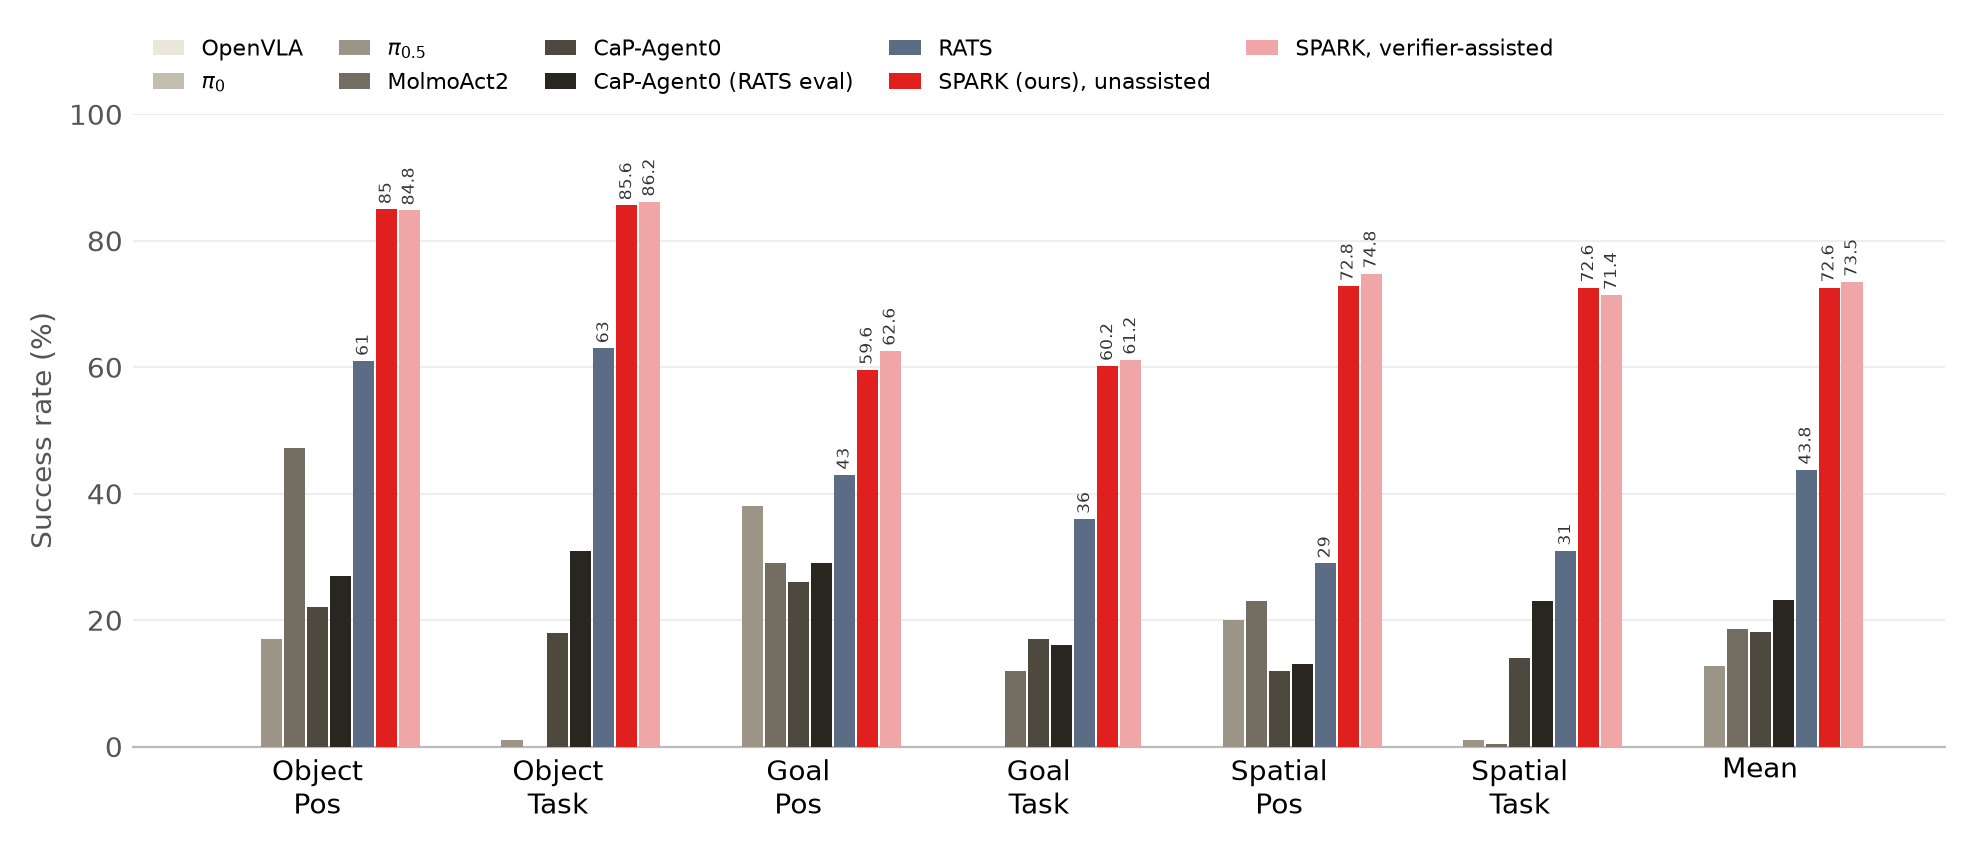
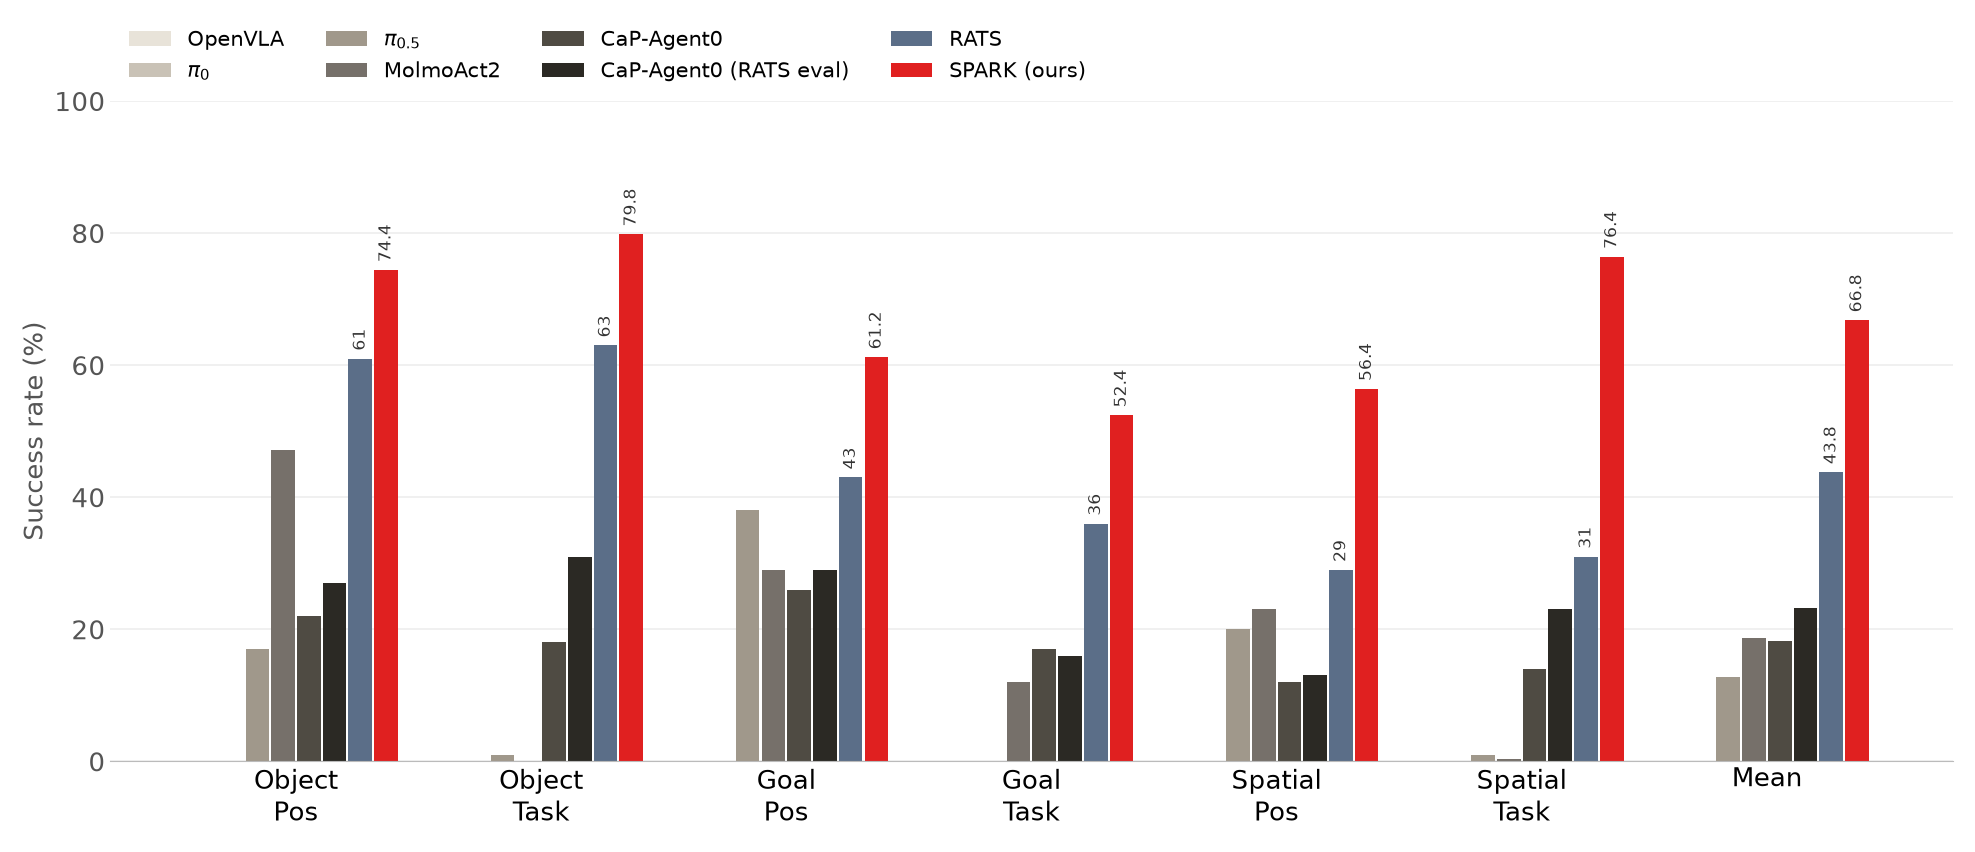
benchmark number fixes

diff --git a/index.html b/index.html
@@ -4,18 +4,18 @@
 <meta charset="utf-8">
 <meta name="viewport" content="width=device-width,initial-scale=1">
 <title>SPARK: Sequential Planning via Anchored Robotic Keypoints</title>
-<meta name="description" content="SPARK separates a task's symbolic plan from its execution-time perceptual grounding: 72.6% mean success on six LIBERO-PRO settings and 68% across eleven physical task-embodiment settings on three robot platforms, without task-specific model training.">
+<meta name="description" content="SPARK separates a task's symbolic plan from its execution-time perceptual grounding: 66.8% mean success on six LIBERO-PRO settings and 68% across eleven physical task-embodiment settings on three robot platforms, without task-specific model training.">
 <!-- Open Graph / Twitter social preview card -->
 <meta property="og:type" content="website">
 <meta property="og:url" content="https://cwru-aism.github.io/spark-page/">
 <meta property="og:title" content="SPARK: Sequential Planning via Anchored Robotic Keypoints">
-<meta property="og:description" content="Separating a task's symbolic plan from its execution-time perceptual grounding: 72.6% on six LIBERO-PRO settings and 68% across eleven physical task-embodiment settings on three robot platforms, without task-specific model training.">
+<meta property="og:description" content="Separating a task's symbolic plan from its execution-time perceptual grounding: 66.8% on six LIBERO-PRO settings and 68% across eleven physical task-embodiment settings on three robot platforms, without task-specific model training.">
 <meta property="og:image" content="https://cwru-aism.github.io/spark-page/static/media/og_preview.jpg">
 <meta property="og:image:width" content="1200">
 <meta property="og:image:height" content="628">
 <meta name="twitter:card" content="summary_large_image">
 <meta name="twitter:title" content="SPARK: Sequential Planning via Anchored Robotic Keypoints">
-<meta name="twitter:description" content="Separating a task's symbolic plan from its execution-time perceptual grounding: 72.6% on six LIBERO-PRO settings and 68% across eleven physical task-embodiment settings on three robot platforms, without task-specific model training.">
+<meta name="twitter:description" content="Separating a task's symbolic plan from its execution-time perceptual grounding: 66.8% on six LIBERO-PRO settings and 68% across eleven physical task-embodiment settings on three robot platforms, without task-specific model training.">
 <meta name="twitter:image" content="https://cwru-aism.github.io/spark-page/static/media/og_preview.jpg">
 <link rel="image_src" href="static/media/og_preview.jpg">
 <link rel="icon" type="image/png" href="static/media/favicon.png">
@@ -62,7 +62,7 @@
           </div>
 
           <div class="publication-links">
-            <a class="btn-link" href="http://arxiv.org/abs/2606.30613"><i class="ai ai-arxiv"></i><span>arXiv</span></a>
+            <a class="btn-link" href="https://arxiv.org/abs/2606.30613"><i class="ai ai-arxiv"></i><span>arXiv</span></a>
             <a class="btn-link" href="#"><svg viewBox="0 0 16 16"><path d="M8 0C3.58 0 0 3.58 0 8c0 3.54 2.29 6.53 5.47 7.59.4.07.55-.17.55-.38 0-.19-.01-.82-.01-1.49-2.01.37-2.53-.49-2.69-.94-.09-.23-.48-.94-.82-1.13-.28-.15-.68-.52-.01-.53.63-.01 1.08.58 1.23.82.72 1.21 1.87.87 2.33.66.07-.52.28-.87.51-1.07-1.78-.2-3.64-.89-3.64-3.95 0-.87.31-1.59.82-2.15-.08-.2-.36-1.02.08-2.12 0 0 .67-.21 2.2.82a7.6 7.6 0 0 1 2-.27c.68 0 1.36.09 2 .27 1.53-1.04 2.2-.82 2.2-.82.44 1.1.16 1.92.08 2.12.51.56.82 1.27.82 2.15 0 3.07-1.87 3.75-3.65 3.95.29.25.54.73.54 1.48 0 1.07-.01 1.93-.01 2.2 0 .21.15.46.55.38A8.01 8.01 0 0 0 16 8c0-4.42-3.58-8-8-8z" fill-rule="evenodd"/></svg><span>Code coming soon</span></a>
           </div>
         </div>
@@ -111,8 +111,8 @@
             manipulation experiments with a fixed plan while moving objects during execution. Under a 10 cm
             displacement, verification and adaptation maintain <strong>66.7%</strong> task success, compared with
             <strong>2.2%</strong> when disabled, demonstrating the importance of the underlying principle. Without
-            task-specific model training, SPARK also achieves <strong>72.6%</strong> mean success across six
-            LIBERO-PRO settings and <strong>68%</strong> across eleven physical task-embodiment settings on three
+            task-specific model training and with an open-weight planner, SPARK also achieves <strong>66.8%</strong>
+            mean success across six LIBERO-PRO settings and <strong>68%</strong> across eleven physical task-embodiment settings on three
             robot platforms. Together, these results show that robustness does not require re-planning the task
             and for an important class of failures, it is sufficient to preserve the plan and update the system's
             perception of a changing world.
@@ -133,7 +133,7 @@
           <img src="static/media/figs/arch.png" alt="SPARK architecture: perception, plan, execute">
           <figcaption>
             SPARK separates the task's score from its execution. Left: perception locates objects as 3D
-            keypoints; the adaptive configuration uses an additional Gemini call to propose alternative object
+            keypoints; the adaptive configuration uses an additional language-model call to propose alternative object
             descriptions. Center: one language-model call writes the score, a behavior tree whose notes are
             skills from a fixed library. Right: the robot executes these skills using current object locations
             and checks each action's post-condition. Failed checks trigger local correction or renewed detection
@@ -143,8 +143,9 @@
         </figure>
         <div class="content has-text-justified">
           <p>
-            SAM3 grounds the scene from the platform cameras. One Gemini call writes the whole plan as a
+            SAM3 grounds the scene from the platform cameras. One language-model call writes the whole plan as a
             typed behavior tree, the score, and the robot follows it without task-specific model training.
+            The LIBERO-PRO results use the open-weight Qwen3.8-27B, served locally; the physical robots use Gemini.
             Each action refers to an object by label, which is resolved to a current 3D position when the
             action executes. A changed instruction may invalidate the task plan, while a moved object may
             instead invalidate only the perceptual grounding of an otherwise valid plan.
@@ -158,11 +159,11 @@
             Each skill checks a post-condition. A failed check triggers a three-tier recovery procedure: an
             in-place correction, such as a small motion and grasp adjustment; perception re-grounding, which
             retracts the arm by 10 cm, re-runs SAM3, and retries the same plan using updated object locations;
-            and plan regeneration through a new Gemini call only after the execution attempt is exhausted. The
+            and plan regeneration through a new language-model call only after the execution attempt is exhausted. The
             first two tiers preserve the existing behavior tree and require no additional LLM call. Five base
             primitives (move_to_keypoint, move_relative, grasp, release, wait) cover basic motion operations,
             and more than thirty registered skills add calibrated closed-loop routines such as force-feedback
-            descent, contact detection, and local retry logic. In simulation, an additional Gemini call
+            descent, contact detection, and local retry logic. In simulation, an additional language-model call
             proposes three alternative prompts per object and SAM3 confidence selects the detection; in the
             matched ablation this raises spatial success by 27.7 points and object success by 10.0, but
             lowers goal-task success by 8.4. Physical experiments use single-prompt detection.
@@ -184,9 +185,11 @@
         <p class="has-text-centered content">
           Success rates (%) over the six LIBERO-PRO position-and-task settings: three suites, two
           perturbation types per suite, ten tasks per setting, 50 trials per task. Pos changes initial
-          object placements; Task changes instructions, targets, relations, or actions. SPARK reads no
-          simulator signal during the episode in the headline row, uses no stored programs, and no BDDL hints.
+          object placements; Task changes instructions, targets, relations, or actions. The SPARK row uses the
+          open-weight Qwen3.8-27B planner, reads no simulator success signal during the episode, locates and
+          verifies drawers and the stove knob from the cameras alone, and uses no stored programs.
         </p>
+        <div style="overflow-x:auto;">
         <table class="result-table">
           <thead>
             <tr><th>Method</th><th>Object Pos</th><th>Object Task</th><th>Goal Pos</th><th>Goal Task</th><th>Spatial Pos</th><th>Spatial Task</th><th>Mean</th></tr>
@@ -199,29 +202,27 @@
             <tr><td>CaP-Agent0</td><td>22</td><td>18</td><td>26</td><td>17</td><td>12</td><td>14</td><td>18.2</td></tr>
             <tr><td>CaP-Agent0 (RATS eval)</td><td>27.0</td><td>31.0</td><td>29.0</td><td>16.0</td><td>13.0</td><td>23.0</td><td>23.2</td></tr>
             <tr><td>RATS</td><td>61.0</td><td>63.0</td><td>43.0</td><td>36.0</td><td>29.0</td><td>31.0</td><td>43.8</td></tr>
-            <tr class="ours rule"><td>SPARK (ours), unassisted</td><td>85.0</td><td>85.6</td><td>59.6</td><td>60.2</td><td>72.8</td><td>72.6</td><td>72.6</td></tr>
-            <tr><td>SPARK, verifier-assisted</td><td>84.8</td><td>86.2</td><td>62.6</td><td>61.2</td><td>74.8</td><td>71.4</td><td>73.5</td></tr>
+            <tr class="ours rule"><td>SPARK (ours)</td><td>74.4</td><td>79.8</td><td>61.2</td><td>52.4</td><td>56.4</td><td>76.4</td><td>66.8</td></tr>
           </tbody>
         </table>
+        </div>
         <p class="result-note has-text-centered">
           OpenVLA, pi0, pi0.5, and the original CaP-Agent0 rows are reproduced from the CaP-Agent0 paper;
           CaP-Agent0 (RATS eval) and RATS are from the RATS paper; MolmoAct2 is our evaluation of the released
-          LIBERO checkpoint. Three goal tasks read model part poses from the simulator; excluding them the
-          unassisted mean is 71.7%. The verifier-assisted row reads the simulator's success predicate
-          mid-episode; the unassisted row removes every such read on the same build and model.
+          LIBERO checkpoint. SPARK: 10 tasks &times; 50 trials per setting.
         </p>
         <p class="has-text-centered content">
-          SPARK reaches <strong>72.6%</strong> mean success with no simulator signal read during the episode,
-          28.8 percentage points above RATS at 43.8%. No task in either goal setting scores zero across fifty
-          trials; the remaining losses concentrate in plate-push and rack-insertion tasks.
+          SPARK reaches <strong>66.8%</strong> mean success with no simulator signal read during the episode,
+          23.0 percentage points above RATS at 43.8%. On the language and object perturbations, which were
+          not used during development, the mean is also <strong>66.8%</strong> (object 92.2 and 78.4, goal 55.2
+          and 44.4, spatial 46.0 and 84.4).
         </p>
 
         <figure class="result-fig">
           <img src="static/media/figs/libero_persuite.png" alt="LIBERO-PRO success rates per setting by method, from the table above">
           <figcaption>
-            The table above as a chart: every method's six settings and mean. The unassisted SPARK row
-            (red, <strong>72.6</strong> mean) is the headline; the verifier-assisted row (73.5) reads the
-            simulator's success predicate mid-episode. OpenVLA and &pi;<sub>0</sub> score 0 in every cell.
+            The table above as a chart: every method's six settings and mean. SPARK (red, <strong>66.8</strong>
+            mean) leads every setting. OpenVLA and &pi;<sub>0</sub> score 0 in every cell.
           </figcaption>
         </figure>
 
@@ -230,9 +231,9 @@
           <img src="static/media/figs/libero_heatmap_object.png" alt="Per-task LIBERO-PRO success, object suite">
           <img src="static/media/figs/libero_heatmap_goal.png" alt="Per-task LIBERO-PRO success, goal suite">
           <figcaption>
-            Per-task success (%) for each LIBERO-PRO suite on the headline build (50 trials per task):
-            SPARK unassisted (top two rows, the headline row of the table above), SPARK verifier-assisted
-            (middle two rows), and MolmoAct2 (bottom two rows). SPARK outperforms MolmoAct2 on task-level
+            Per-task success (%) for each LIBERO-PRO suite (50 trials per task): SPARK position and task
+            (top two rows, the table above), SPARK on the held-out language and object perturbations
+            (middle two rows, marked *), and MolmoAct2 (bottom two rows). SPARK outperforms MolmoAct2 on task-level
             perturbation across all three suites; MolmoAct2 achieves higher position accuracy on specific
             object-suite tasks but scores near zero on task perturbation.
           </figcaption>
